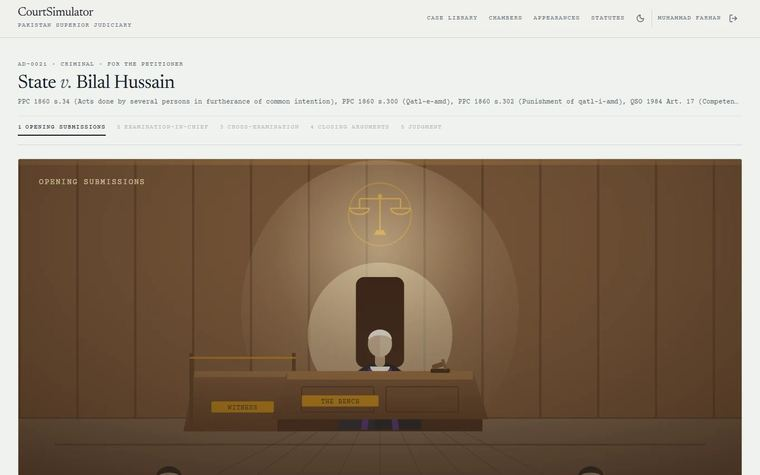
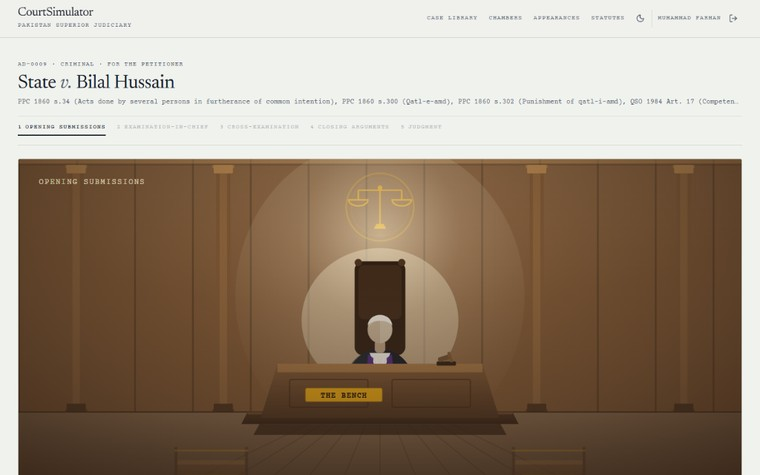
feat: add mootcourt simulator project details and associated screenshot assets

diff --git a/src/data/content.js b/src/data/content.js
@@ -215,9 +215,10 @@ export const featuredProjects = [
     shots: [
       { src: '/shots/mootcourt/01-case-library.jpg', label: 'Case library' },
       { src: '/shots/mootcourt/02-case-brief.jpg', label: 'Case brief' },
-      { src: '/shots/mootcourt/03-courtroom.jpg', label: 'The courtroom' },
-      { src: '/shots/mootcourt/04-chambers.jpg', label: 'Chambers' },
-      { src: '/shots/mootcourt/05-statutes.jpg', label: 'Statutes' },
+      { src: '/shots/mootcourt/03-courtroom.jpg', label: 'Opening submissions' },
+      { src: '/shots/mootcourt/04-examination.jpg', label: 'Examination-in-chief' },
+      { src: '/shots/mootcourt/05-chambers.jpg', label: 'Chambers' },
+      { src: '/shots/mootcourt/06-statutes.jpg', label: 'Statutes' },
     ],
     repo: 'https://github.com/farhan-hash404/MootCourtSimulator',
     actions: [
